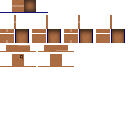
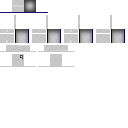
Finished ContentTip merging, tweaked the CreativeTab, and changed how the main box is colorized, also added default Box names when crafting.

Changed region(s): [[0.0, 0.0, 0.7188, 0.5312], [0.75, 0.0938, 0.9688, 0.3438]]

diff --git a/src/minecraft/ml/boxes/item/ItemBox.java b/src/minecraft/ml/boxes/item/ItemBox.java
@@ -58,16 +58,15 @@ public class ItemBox extends ItemBlock {
 
 	@Override
 	public String getItemDisplayName(ItemStack par1ItemStack) {
-		BoxData box = ItemBox.getDataFromIS(par1ItemStack);
-		String nameBuild = "";
+		BoxData bd = ItemBox.getDataFromIS(par1ItemStack);
 		
-		if (box != null){
-			if (box.boxName != null && !box.boxName.isEmpty())
-				return box.boxName;
+		if (bd != null){
+			if (bd.boxName != null && !bd.boxName.isEmpty()){
+				return bd.boxName;
+			}
 		}
 		
-		nameBuild += LanguageRegistry.instance().getStringLocalization("item.box.name", "en_US");
-		return nameBuild;
+		return LanguageRegistry.instance().getStringLocalization("item.box.name", "en_US");
 	}
 
 	@Override
@@ -99,6 +98,7 @@ public class ItemBox extends ItemBlock {
 		for (int i=0; i<15; i++){
 			ItemStack is = new ItemStack(Boxes.BlockBox, 1);
 			BoxData bd = new BoxData();
+			bd.boxName = getColoredBoxName(i);
 			bd.boxColor = ItemDye.dyeColors[i];
 			setBoxDataToIS(is, bd);
 			par3List.add(is);
@@ -124,6 +124,10 @@ public class ItemBox extends ItemBlock {
 		if (!par3EntityPlayer.isSneaking())
 			par3EntityPlayer.openGui(Boxes.instance, 2, par2World, 0,0,0);
 		return super.onItemRightClick(par1ItemStack, par2World, par3EntityPlayer);
+	}
+	
+	public static String getColoredBoxName(int i){
+		return StringTranslate.getInstance().translateKey("item.fireworksCharge." + ItemDye.dyeColorNames[i]) + " " + LanguageRegistry.instance().getStringLocalization("item.box.name", "en_US");
 	}
 	
 }

diff --git a/src/minecraft/ml/boxes/client/ContentTipHandler.java b/src/minecraft/ml/boxes/client/ContentTipHandler.java
@@ -36,7 +36,6 @@ import cpw.mods.fml.relauncher.Side;
 import cpw.mods.fml.relauncher.SideOnly;
 
 @SideOnly(Side.CLIENT)
-//TODO Tip does not close when an NEI recipe is shown
 public class ContentTipHandler implements ITickHandler {
 
 	private static Slot hoverSlot;
@@ -219,11 +218,7 @@ public class ContentTipHandler implements ITickHandler {
 
 	//Render the tip
 	public static void renderContentTip(Minecraft mc, int mx, int my, float tickTime){
-		if (!isTipValid(mx, my)){
-			showingTip = false;
-		}
-		
-		if (showingTip){
+		if (revalidateTip(mx, my)){
 			RenderEngine re = mc.renderEngine;
 			int tex = re.getTexture("/ml/boxes/gfx/contentTipGui2.png");
 			re.bindTexture(tex);
@@ -268,13 +263,15 @@ public class ContentTipHandler implements ITickHandler {
 		}
 	}
 
-	public static boolean handleClick(int mx, int my, int btn){
+	public static boolean revalidateTip(int mx, int my){
 		if (!isTipValid(mx, my)){
 			showingTip = false;
-			return false;
 		}
-		
-		if (isPointInTip(mx, my)){
+		return showingTip;
+	}
+	
+	public static boolean handleClick(int mx, int my, int btn){
+		if (revalidateTip(mx, my) && isPointInTip(mx, my)){
 			int slNum = getSlotAtPosition(mx, my);
 			BoxData bd = getBoxData();
 			Minecraft mc = FMLClientHandler.instance().getClient();

diff --git a/src/minecraft/ml/boxes/recipe/RecipeBox.java b/src/minecraft/ml/boxes/recipe/RecipeBox.java
@@ -1,19 +1,15 @@
 package ml.boxes.recipe;
 
-import java.util.ArrayList;
-
+import cpw.mods.fml.common.registry.LanguageRegistry;
 import ml.boxes.BoxData;
 import ml.boxes.Boxes;
-import ml.boxes.Lib;
 import ml.boxes.item.ItemBox;
-import net.minecraft.block.BlockCloth;
-import net.minecraft.entity.Entity;
-import net.minecraft.entity.passive.EntitySheep;
 import net.minecraft.inventory.InventoryCrafting;
 import net.minecraft.item.Item;
 import net.minecraft.item.ItemDye;
 import net.minecraft.item.ItemStack;
 import net.minecraft.item.crafting.IRecipe;
+import net.minecraft.util.StringTranslate;
 import net.minecraft.world.World;
 import net.minecraftforge.oredict.OreDictionary;
 
@@ -50,6 +46,7 @@ public class RecipeBox implements IRecipe {
 		ItemStack dyeStack = var1.getStackInRowAndColumn(1, 1);
 		for (int i=0; i<16; i++){
 			if (OreDictionary.getOreID(new ItemStack(Item.dyePowder, 1, i)) == OreDictionary.getOreID(dyeStack)){
+				data.boxName = ItemBox.getColoredBoxName(i);
 				data.boxColor = ItemDye.dyeColors[i];
 				break;
 			}

diff --git a/src/minecraft/ml/boxes/BoxesCreativeTab.java b/src/minecraft/ml/boxes/BoxesCreativeTab.java
@@ -1,7 +1,9 @@
 package ml.boxes;
 
+import ml.boxes.item.ItemBox;
 import net.minecraft.creativetab.CreativeTabs;
 import net.minecraft.item.Item;
+import net.minecraft.item.ItemDye;
 import net.minecraft.item.ItemStack;
 
 public class BoxesCreativeTab extends CreativeTabs {
@@ -12,7 +14,11 @@ public class BoxesCreativeTab extends CreativeTabs {
 
 	@Override
 	public ItemStack getIconItemStack() {
-		return new ItemStack(Boxes.BlockBox, 1, 1);
+		BoxData bd = new BoxData();
+		bd.boxColor = ItemDye.dyeColors[12];
+		ItemStack is = new ItemStack(Boxes.BlockBox);
+		ItemBox.setBoxDataToIS(is, bd);
+		return is;
 	}
 	
 }

diff --git a/src/minecraft/ml/boxes/nei/NEI_Boxes_Config.java b/src/minecraft/ml/boxes/nei/NEI_Boxes_Config.java
@@ -109,8 +109,8 @@ public class NEI_Boxes_Config implements IConfigureNEI {
 		@Override
 		public ItemStack getStackUnderMouse(GuiContainer gui, int mousex,
 				int mousey) {
-			//if (ContentTipHandler.showingTip)
-				//return ContentTipHandler.currentTip.getStackAtPosition(mousex, mousey); //TODO Called after an ItemStack of Boxes is Deleted by Shift+Clicking in creative. End in NullPExcept
+			if (ContentTipHandler.revalidateTip(mousex, mousey))
+				return ContentTipHandler.getStackAtPosition(mousex, mousey);
 			return null;
 		}
 

diff --git a/src/minecraft/ml/boxes/client/BoxTERenderer.java b/src/minecraft/ml/boxes/client/BoxTERenderer.java
@@ -65,12 +65,12 @@ public class BoxTERenderer extends TileEntitySpecialRenderer {
 		GL11.glEnable(GL11.GL_BLEND);
 		GL11.glBlendFunc(GL11.GL_SRC_ALPHA, GL11.GL_ONE_MINUS_SRC_ALPHA);
 
-		GL11.glColor4f(1.0F, 1.0F, 1.0F, 1.0F);
+		GL11.glColor4f(0.7F, 0.47F, 0.3F, 1F);
 		bindTextureByName("/ml/Boxes/gfx/box.png");
 		boxModel.renderAll();
 
-
 		GL11.glDisable(GL11.GL_BLEND);
+		GL11.glColor4f(1F, 1F, 1F, 1F);
 	}
 
 }
